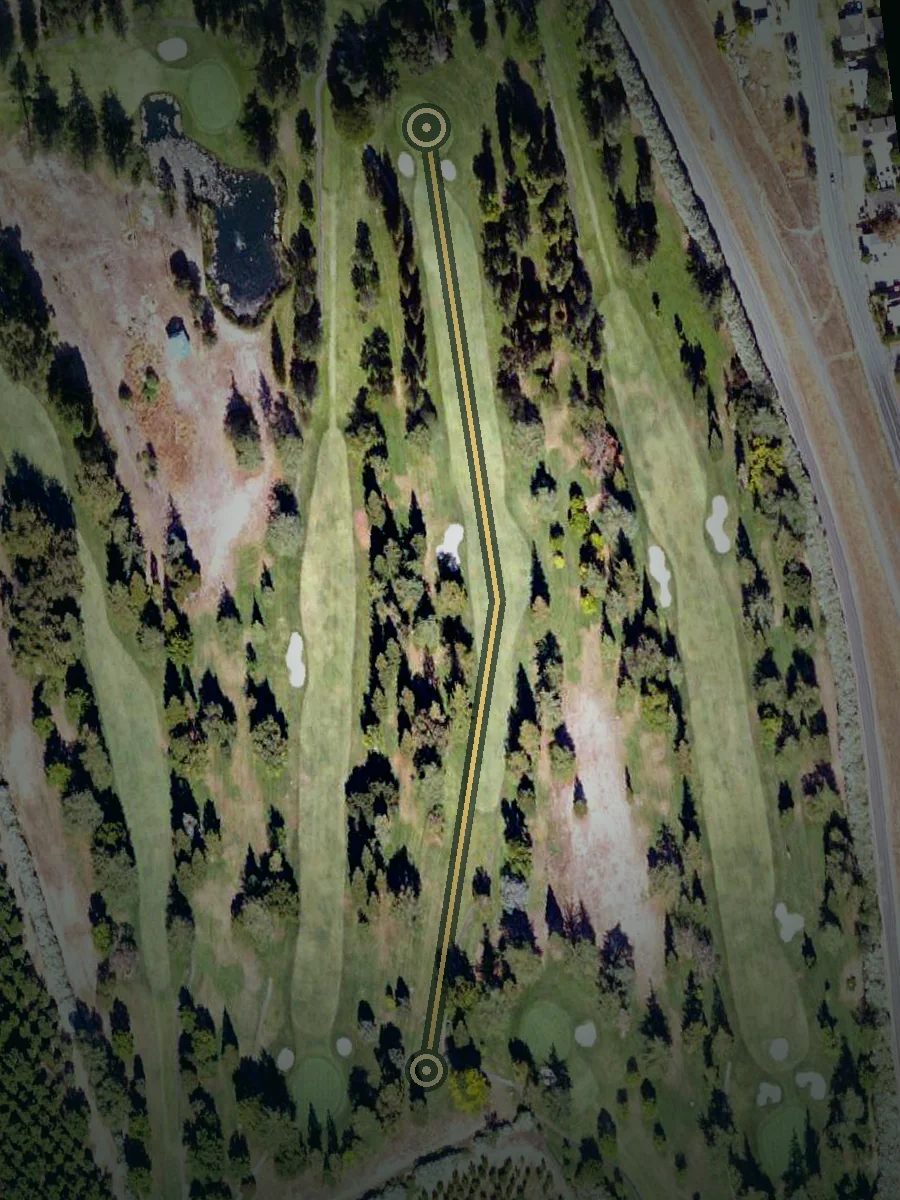
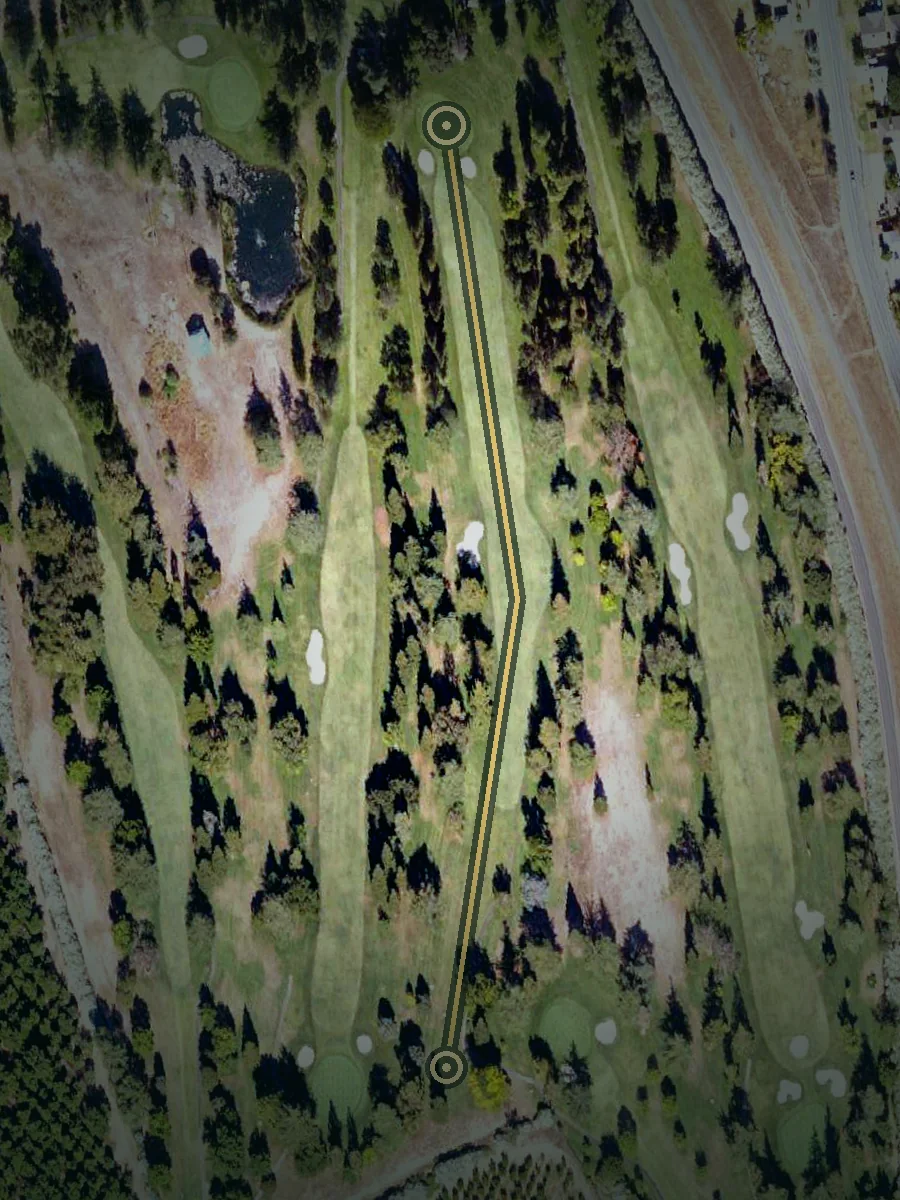
MAR-33: keep every hole card inside the source raster (#12)
card_transform framed each hole around its centerline centroid without
checking the raster bounds, so since the 1.25x re-crop four cards (holes
1, 2, 4, 13) poked past the imagery's edge and rendered the overhang
black — a fifth of hole 2's card. The transform now shrinks the frame if
a card cannot fit at all, slides the centre the shortest distance that
brings every corner inside, asserts the result, and records the achieved
frameRatio per hole. All four affected cards regenerated; all 18 verified
inside 4000x2957 at the full 1.25x framing.

diff --git a/scripts/generate_peach_tree_atlas.py b/scripts/generate_peach_tree_atlas.py
@@ -364,11 +364,59 @@ def card_transform(
 
     scale = max(target, fits_along, fits_across)
 
+    # The card is a rotated rectangle cut from the raster, and nothing above
+    # checks that the rectangle stays on it. Once the frame tightened to the
+    # hole (MAR-31), a hole near the imagery's edge could poke past it — hole
+    # 2's card reached ~270px beyond the southern edge and the overhang
+    # rendered black. Fit first: if the card cannot fit on the raster at this
+    # scale in any position, tighten the frame to the largest scale that can.
+    # Then slide the centre the shortest distance that puts every corner
+    # inside.
+    half_extent_x = (output_width / 2) * abs(perp_x) + (output_height / 2) * abs(unit_x)
+    half_extent_y = (output_width / 2) * abs(perp_y) + (output_height / 2) * abs(unit_y)
+    largest_fitting = min(
+        source_width / (2 * half_extent_x), source_height / (2 * half_extent_y)
+    )
+    if scale > largest_fitting:
+        if max(fits_along, fits_across) > largest_fitting:
+            raise ValueError(
+                "hole card cannot fit inside the raster even at the minimum "
+                "frame that still contains the hole — the raster is too small "
+                "for this hole's position"
+            )
+        scale = largest_fitting
+
+    center_x = min(
+        max(center_x, half_extent_x * scale), source_width - half_extent_x * scale
+    )
+    center_y = min(
+        max(center_y, half_extent_y * scale), source_height - half_extent_y * scale
+    )
+
+    # Belt and braces: a future edit to the maths above must fail loudly here
+    # rather than quietly ship a black-banded card again.
+    for signs in ((1, 1), (1, -1), (-1, 1), (-1, -1)):
+        corner_x = center_x + signs[0] * half_extent_x * scale
+        corner_y = center_y + signs[1] * half_extent_y * scale
+        if not (-1e-6 <= corner_x <= source_width + 1e-6) or not (
+            -1e-6 <= corner_y <= source_height + 1e-6
+        ):
+            raise AssertionError(
+                f"card corner ({corner_x:.1f}, {corner_y:.1f}) left the "
+                f"{source_width}x{source_height} raster after clamping"
+            )
+
     return {
         "center": {"x": center_x, "y": center_y},
         "unit": {"x": unit_x, "y": unit_y},
         "perp": {"x": perp_x, "y": perp_y},
         "scale": scale,
+        # How much taller the frame is than the hole, after any fit reduction.
+        # Matches TARGET_FRAME_RATIO except on a hole squeezed by the raster's
+        # edge, where this records what was actually achievable.
+        "frameRatio": round(
+            scale * output_height * metres_along / hole_metres, 4
+        ),
     }
 
 
